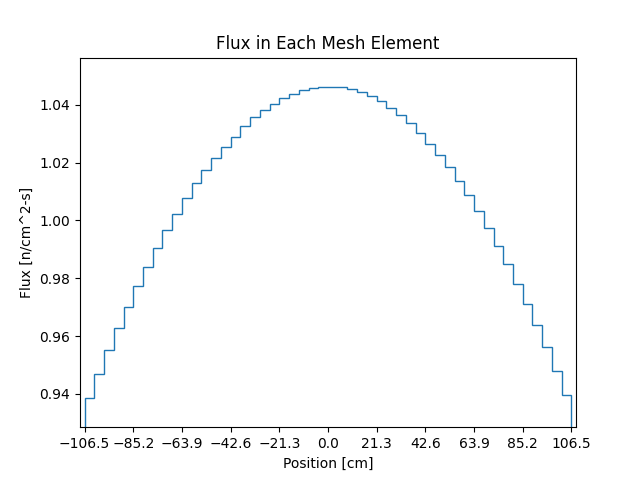
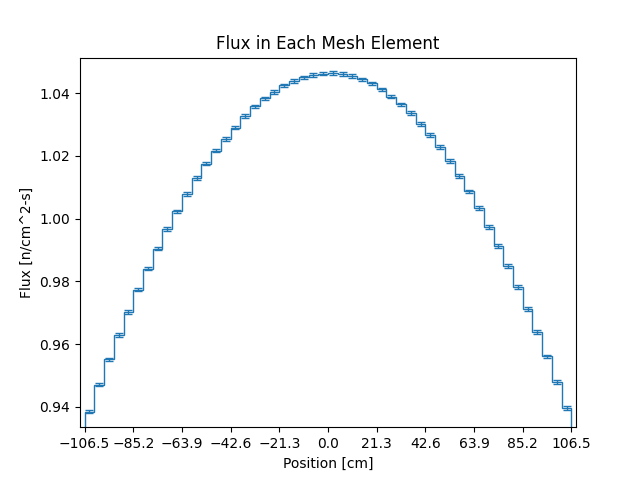
got functioning error bars

diff --git a/50/plot_results.py b/50/plot_results.py
@@ -20,14 +20,15 @@ bin_boundaries = np.linspace(-L,L,num_voxels+1)
 # give one value in each bin paired with the bin boundaries.
 # then scale the weight of each bin by the flux
 plt.hist(bin_boundaries[:-1],bin_boundaries,weights=flux.mean,histtype='step') # plot flux vs position
-# TODO add error bars for flux bins
+# error bars for flux bins
 bin_average_values = (bin_boundaries[1:] + bin_boundaries[:-1])/2 # get bin centers
+plt.errorbar(bin_average_values,flux.mean,yerr=flux.std_dev,marker = '|',fmt='none',elinewidth=1,capsize=3,capthick=1)
 plt.title('Flux in Each Mesh Element')
 plt.xlabel('Position [cm]')
 plt.ylabel('Flux [n/cm^2-s]')
 plt.xlim([-(L+2),L+2])
 plt.xticks(bin_boundaries[::5])
-plt.ylim([flux_min-0.01,flux_max+0.01])
+plt.ylim([flux_min-0.005,flux_max+0.005])
 plt.savefig('flux_dist_50.png')
 plt.clf()
 # Determine relative error
@@ -39,7 +40,9 @@ plt.hist(flux_relative_error[nonzero], bins=50)
 plt.title('Relative Error Distribution for Flux')
 plt.xlabel('Relative Error')
 plt.ylabel('Frequency')
+# TODO compute error from analytical solutioin
+# paramters for analytical solution
+
+
 plt.savefig('relative_errors_50.png')
 plt.clf()
-
-# TODO compute error from analytical solutioin
